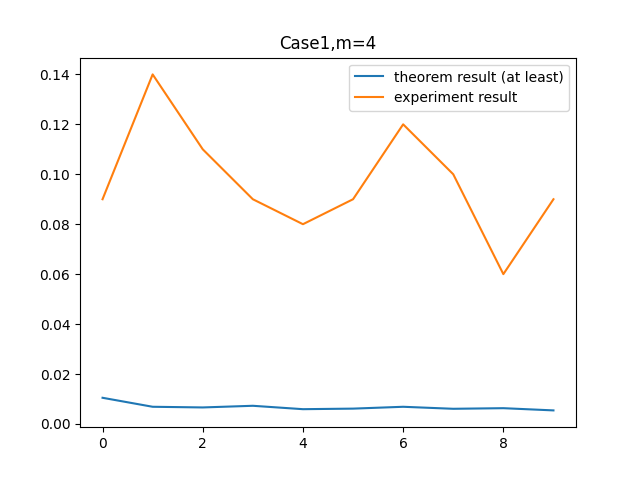
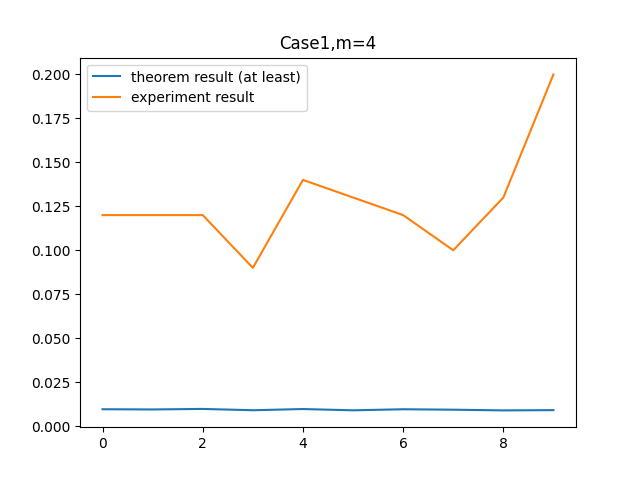
indicator

diff --git a/generate_povm.py b/generate_povm.py
@@ -2,7 +2,7 @@ import numpy as np
 import random
 from scipy.stats import unitary_group
 import time
-
+import sys
 def generate_normalized_psd_matrix(m,d,high=True):
     """Generate a normalized PSD matrix with eigenvalues between 0 and 1."""
     np.random.seed(int(time.time()))
@@ -35,28 +35,52 @@ def generate_povm_set_case_2(d, m):
 def generate_povm_by_unitary_case_1(d,m,projector,roh):
     
     povm=[]
-    
+    seed=int(time.time())
+    len_povm=0
     while len(povm)!=m-1:
+        np.random.seed(seed)
         U=unitary_group.rvs(d)
         temp=U@projector@U.T.conj()
         if 0.0001<np.trace(temp@roh)<0.7:
             povm.append(temp)
+        seed+=1
+        if len_povm!=len(povm):
+            sys.stdout.write(f"\rpovm : "+str(len_povm+1)+"/"+str(m))
+            sys.stdout.flush()
+            
+        len_povm=len(povm)
     while len(povm)!=m:
+        np.random.seed(seed)
         U=unitary_group.rvs(d)
         temp=U@projector@U.T.conj()
         if 1>np.trace(temp@roh)>0.5:
             povm.append(temp)
-        
+        seed+=1
+        if len_povm!=len(povm):
+            sys.stdout.write(f"\rpovm : "+str(len_povm+1)+"/"+str(m))
+            sys.stdout.flush()
+            
+        len_povm=len(povm)
+    print()
     return povm
 
 def generate_povm_by_unitary_case_2(d,m,projector,roh):
    
     povm=[]
-    
+    seed=int(time.time())
+    len_povm=0
     while len(povm)!=m:
+        np.random.seed(seed)
         U=unitary_group.rvs(d)
         temp=U@projector@U.T.conj()
-        if 0.0001<np.trace(temp@roh)<0.2/m:
+        if 0.0001<np.trace(temp@roh)<0.5/m:
             povm.append(temp)
+        seed+=1
+        if len_povm!=len(povm):
+            sys.stdout.write(f"\rpovm : "+str(len_povm+1)+"/"+str(m))
+            sys.stdout.flush()
+            
+        len_povm=len(povm)
     
+    print()
     return povm

diff --git a/script.py b/script.py
@@ -5,19 +5,19 @@ import matplotlib.pyplot as plt
 import os
 ############################### Initialization ######################################################
 
-d = 128                             # Dimension of the initial state (need to be a power of 2)
+d = 32                             # Dimension of the initial state (need to be a power of 2)
 m_s=[4,8,16,32]                  # the number of elements in the povm measurement
 case_s=[1,2]                       # the case to test
           
 # num_shot=1                  # the shot for sampling in one circuit
 test_time=100                   # the number of times to run the circuit
-rank=90                             # the rank of the projector
+rank=8                             # the rank of the projector
 event_learning_times=10          # run event learning several times 
 
 state_random=True                 # generate the random state
 projector_random=False            #generate the random projector to be the base of the povm
 
-dir_name="d_128_rank_90"       # set the directory saving the plot
+dir_name="d_32_rank_8"       # set the directory saving the plot
 if not os.path.exists(dir_name):
         os.makedirs(dir_name)
 
@@ -39,6 +39,7 @@ else:
 
 for case in case_s:
     for m in m_s:
+        print("case: "+str(case)+", m: "+str(m))
         y_thm=[]
         y_exp=[]
         for i in range(event_learning_times):
@@ -46,7 +47,7 @@ for case in case_s:
             y_thm.append(result['theorem'])
             y_exp.append(result['experiemnt'])
             print_progress(i+1,event_learning_times,bar_length=event_learning_times)
-        print()
+            print()
         fig,ax=plt.subplots()
         # print(result)
         x=range(0,event_learning_times)

diff --git a/event_learning_fuc.py b/event_learning_fuc.py
@@ -68,10 +68,12 @@ def event_learning(d,m,case,state,test_time,projector_case_1,projector_case_2,ro
 
     if case==1:
         
-        epsilon=float(1-povm_set_pro[0])
-        beta=float(sum(povm_set_pro[1:]))
-        at_least_pro=float(((1-epsilon)**3)/(12*(1+beta)))
-        
+        # epsilon=float(1-povm_set_pro[0])
+        # beta=float(sum(povm_set_pro[1:]))
+        # at_least_pro=float(((1-epsilon)**3)/(12*(1+beta)))
+        epsilon=1-povm_set_pro[0]
+        beta=sum(povm_set_pro[1:])
+        at_least_pro=((1-epsilon)**3)/(12*(1+beta))
         if print_check:
             print("   Case 1")
             print("1. epsilon is "+str(epsilon))
@@ -80,8 +82,8 @@ def event_learning(d,m,case,state,test_time,projector_case_1,projector_case_2,ro
 
     elif case==2:
         
-        delta=float(sum(povm_set_pro[:]))
-        
+        # delta=float(sum(povm_set_pro[:]))
+        delta=sum(povm_set_pro[:])
         if print_check:
             print("   Case 2")
             print("1. delta is "+str(delta))

diff --git a/tools.py b/tools.py
@@ -98,7 +98,7 @@ def plot_sequential_blended_result(labels,values,m):
     plt.show()
 
 def print_progress(current, total, bar_length=20):
-
+    
     fraction = current / total
     arrow = int(fraction * bar_length - 1) * '=' + '>'
     padding = (bar_length - len(arrow)) * ' '
